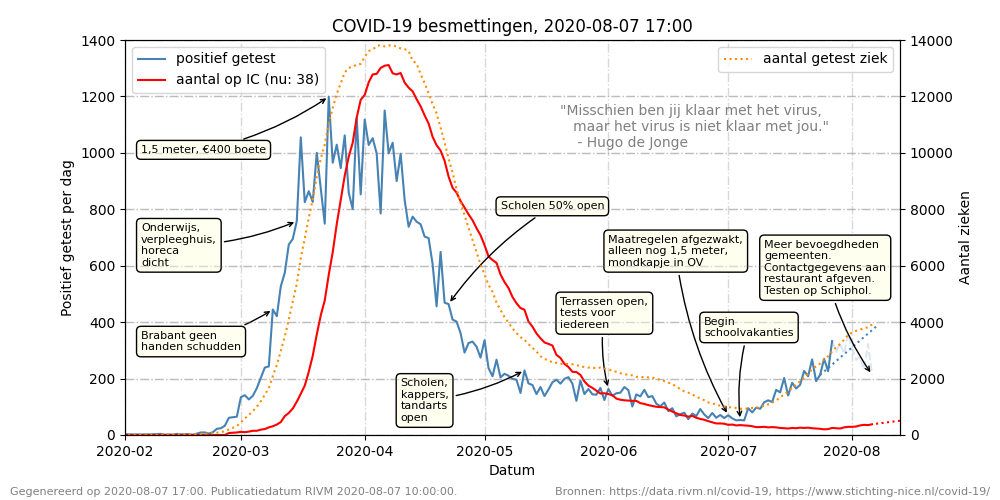
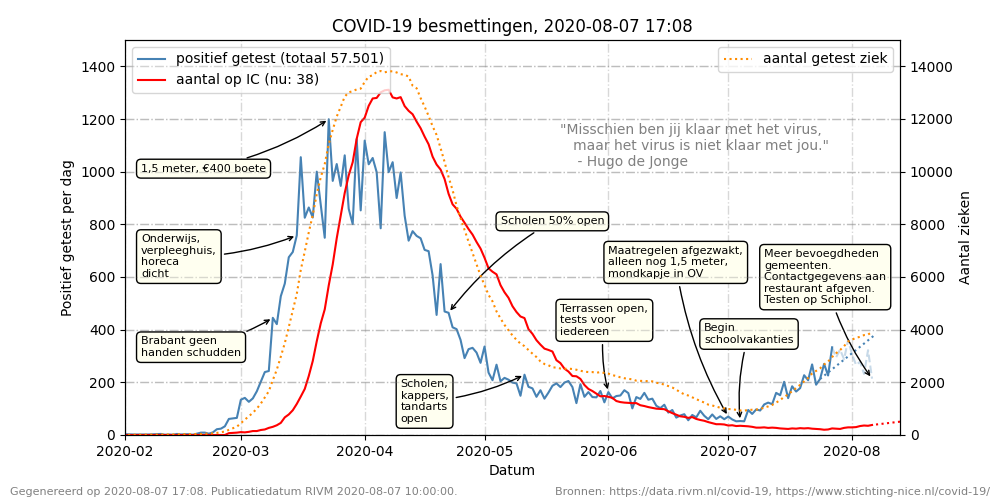
Ran getDailyExcelData

diff --git a/scripts/createGraph.py b/scripts/createGraph.py
@@ -31,6 +31,8 @@ def getDateRange(metenisweten):
 
 print("Generating graphs.")
 
+totaal_positief=0
+
 with open('../cache/COVID-19_casus_landelijk.json', 'r') as json_file:
     data = json.load(json_file)
     metenisweten = {}
@@ -42,6 +44,7 @@ with open('../cache/COVID-19_casus_landelijk.json', 'r') as json_file:
             }
         metenisweten[record['Date_statistics']]['positief'] += 1
         filedate = record['Date_file']
+        totaal_positief += 1
 
 with open('../cache/NICE-intake-count.json', 'r') as json_file:
     data = json.load(json_file)
@@ -205,8 +208,8 @@ ax2.grid(which='both', axis='both', linestyle='-.',
          color='gray', linewidth=1, alpha=0.3)
 
 # Plot cases per dag
-ax1.plot(positief['x'][:-10], positief['y'][:-10], color='steelblue', label='positief getest')
-ax1.plot(positief['x'][-11:], positief['y'][-11:], color='steelblue', linestyle='--', alpha=0.2)
+ax1.plot(positief['x'][:-10], positief['y'][:-10], color='steelblue', label='positief getest (totaal '+"{:,}".format(totaal_positief).replace(',','.')+")")
+ax1.plot(positief['x'][-11:], positief['y'][-11:], color='steelblue', linestyle='--', alpha=0.3)
 
 anotate(ax1, metenisweten, "2020-03-09",
         'Brabant geen\nhanden schudden', "2020-02-05", 300)
@@ -256,8 +259,8 @@ ax1.set_xlabel("Datum")
 ax1.set_ylabel("Positief getest per dag")
 ax2.set_ylabel("Aantal zieken")
 
-ax1.set_ylim([0, 1400])
-ax2.set_ylim([0, 14000])
+ax1.set_ylim([0, 1500])
+ax2.set_ylim([0, 15000])
 
 plt.gca().set_xlim([parser.parse("2020-02-01"), ic_voorspeld['x'][-1]])
 
